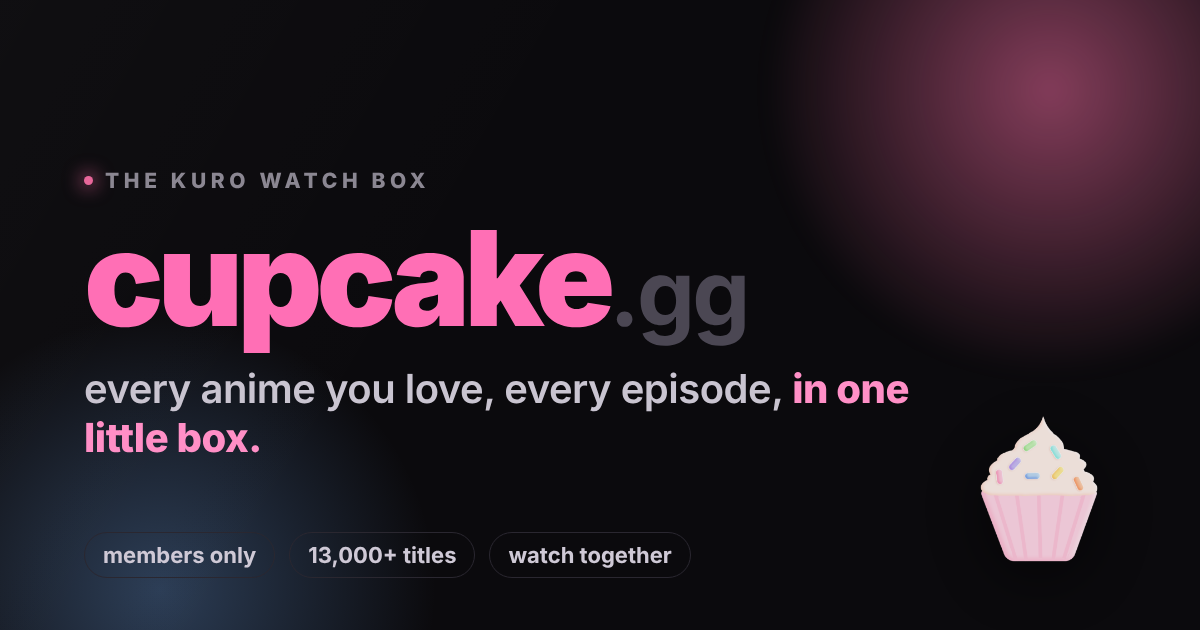
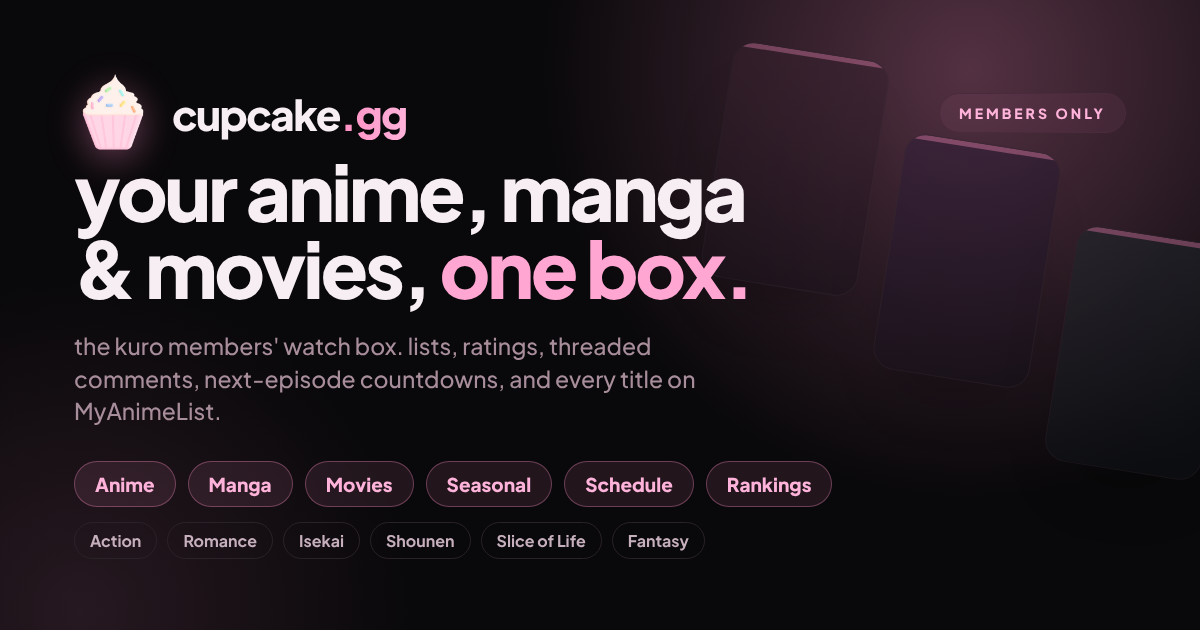
Branding: redesign the cupcake.gg link-preview card
Replace the OG/social embed image with a designed 1200x630 card in the
midnight skin (black + pink): the cupcake mark and wordmark, a human
headline, and chips for the sections (Anime, Manga, Movies, Seasonal,
Schedule, Rankings) plus a few genres, so the embed shows what the site
actually is. Source lives in scripts/og-card.html.

Also rewrite the metadata title/description to read less like generated
copy and drop the em dashes.

Claude-Session: https://claude.ai/code/session_01Mj1JfdG3zK4rCxSydCeCSd

diff --git a/scripts/og-card.html b/scripts/og-card.html
@@ -1,0 +1,82 @@
+<!doctype html>
+<!--
+  Source for public/og.png (the cupcake.gg link-preview card, 1200x630).
+  Edit here, then re-render with headless Chromium, e.g.:
+    chrome --headless --no-sandbox --force-device-scale-factor=1 \
+      --window-size=1200,630 --virtual-time-budget=6000 \
+      --screenshot=public/og.png file://$PWD/scripts/og-card.html
+-->
+<html lang="en">
+<head>
+<meta charset="utf-8">
+<link rel="preconnect" href="https://fonts.googleapis.com">
+<link rel="preconnect" href="https://fonts.gstatic.com" crossorigin>
+<link href="https://fonts.googleapis.com/css2?family=Plus+Jakarta+Sans:wght@500;600;700;800&display=swap" rel="stylesheet">
+<style>
+  *{margin:0;padding:0;box-sizing:border-box}
+  :root{
+    --bg:#09080a;--line:#2a2229;
+    --pink:#ff8fc4;--pink-soft:#ffa6d2;--pink-text:#ffb3da;
+    --ink:#f7eef3;--muted:#a88d9b;
+  }
+  html,body{width:1200px;height:630px}
+  body{
+    font-family:'Plus Jakarta Sans',system-ui,-apple-system,'Segoe UI',Roboto,sans-serif;
+    background:var(--bg);color:var(--ink);overflow:hidden;position:relative;
+    -webkit-font-smoothing:antialiased;
+  }
+  .glow{position:absolute;width:980px;height:980px;right:-260px;top:-420px;border-radius:50%;
+    background:radial-gradient(circle,rgba(255,143,196,.30),rgba(255,143,196,0) 62%)}
+  .glow2{position:absolute;width:760px;height:760px;left:-300px;bottom:-360px;border-radius:50%;
+    background:radial-gradient(circle,rgba(255,143,196,.12),rgba(255,143,196,0) 62%)}
+  .shelf{position:absolute;right:-30px;top:78px;display:flex;gap:26px;transform:rotate(9deg);opacity:.42}
+  .poster{width:158px;height:238px;border-radius:22px;border:1px solid #2f2530;
+    box-shadow:0 36px 70px -34px rgba(0,0,0,.9);position:relative;overflow:hidden}
+  .poster::before{content:"";position:absolute;inset-inline:0;top:0;height:5px;background:var(--pink);opacity:.8}
+  .poster.a{background:linear-gradient(160deg,#3a2230,#17101a)}
+  .poster.b{background:linear-gradient(160deg,#2b1b3c,#141018);margin-top:64px}
+  .poster.c{background:linear-gradient(160deg,#1b2b30,#101418);margin-top:128px}
+  .wrap{position:relative;padding:74px;height:100%;display:flex;flex-direction:column}
+  .top{display:flex;align-items:center;gap:20px}
+  .mark{width:78px;height:78px;filter:drop-shadow(0 8px 18px rgba(255,143,196,.4))}
+  .word{font-weight:800;font-size:42px;letter-spacing:-1.6px}
+  .word b{font-weight:800;background:linear-gradient(90deg,#ff8fc4,#ffb3da);
+    -webkit-background-clip:text;background-clip:text;color:transparent}
+  .tag{margin-left:auto;font-size:14px;font-weight:800;letter-spacing:3px;text-transform:uppercase;
+    color:var(--pink-text);border:1.5px solid #4a2a3d;border-radius:999px;padding:10px 19px;
+    background:rgba(255,143,196,.06)}
+  .mid{margin-top:auto}
+  h1{font-size:78px;line-height:.99;letter-spacing:-3.2px;font-weight:800;max-width:720px}
+  h1 span{color:var(--pink-soft)}
+  .sub{margin-top:24px;font-size:23px;font-weight:500;color:var(--muted);max-width:660px;line-height:1.4}
+  .chips{margin-top:34px;display:flex;flex-wrap:wrap;gap:12px;max-width:780px}
+  .chip{font-size:19px;font-weight:800;padding:10px 20px;border-radius:999px;
+    color:var(--pink-text);background:rgba(255,143,196,.10);border:1.5px solid rgba(255,143,196,.34)}
+  .genres{margin-top:15px;display:flex;flex-wrap:wrap;gap:10px;max-width:780px}
+  .g{font-size:16px;font-weight:700;padding:7px 15px;border-radius:999px;color:#c7b0bd;border:1.5px solid #2a2229}
+</style>
+</head>
+<body>
+  <div class="glow"></div><div class="glow2"></div>
+  <div class="shelf"><div class="poster a"></div><div class="poster b"></div><div class="poster c"></div></div>
+  <div class="wrap">
+    <div class="top">
+      <img class="mark" src="../public/cupcake.png" alt="">
+      <div class="word">cupcake<b>.gg</b></div>
+      <div class="tag">members only</div>
+    </div>
+    <div class="mid">
+      <h1>your anime, manga<br>&amp; movies, <span>one box.</span></h1>
+      <div class="sub">the kuro members' watch box. lists, ratings, threaded comments, next-episode countdowns, and every title on MyAnimeList.</div>
+      <div class="chips">
+        <div class="chip">Anime</div><div class="chip">Manga</div><div class="chip">Movies</div>
+        <div class="chip">Seasonal</div><div class="chip">Schedule</div><div class="chip">Rankings</div>
+      </div>
+      <div class="genres">
+        <div class="g">Action</div><div class="g">Romance</div><div class="g">Isekai</div>
+        <div class="g">Shounen</div><div class="g">Slice of Life</div><div class="g">Fantasy</div>
+      </div>
+    </div>
+  </div>
+</body>
+</html>

diff --git a/app/layout.tsx b/app/layout.tsx
@@ -12,7 +12,7 @@ import "./globals.css";
 const sans = Plus_Jakarta_Sans({ subsets: ["latin"], variable: "--font-sans-src", display: "swap" });
 const plex = IBM_Plex_Mono({ subsets: ["latin"], weight: ["400", "500"], variable: "--font-plex", display: "swap" });
 
-const TAGLINE = "Every show you're watching, everything you've loved, and whatever's next — all in one little box. The kuro members' watch lounge.";
+const TAGLINE = "Anime, manga and movies in one little box. Lists, ratings, comments and next-episode countdowns, for kuro members.";
 
 export const metadata: Metadata = {
   metadataBase: new URL("https://cupcake.gg"),
@@ -24,13 +24,13 @@ export const metadata: Metadata = {
     type: "website",
     url: "https://cupcake.gg",
     siteName: "cupcake.gg",
-    title: "cupcake.gg — the kuro watch box",
+    title: "cupcake.gg · the kuro watch box",
     description: TAGLINE,
-    images: [{ url: "/og.png", width: 1200, height: 630, alt: "cupcake.gg — every anime you love, in one little box" }],
+    images: [{ url: "/og.png", width: 1200, height: 630, alt: "cupcake.gg: your anime, manga and movies in one box" }],
   },
   twitter: {
     card: "summary_large_image",
-    title: "cupcake.gg — the kuro watch box",
+    title: "cupcake.gg · the kuro watch box",
     description: TAGLINE,
     images: ["/og.png"],
   },
